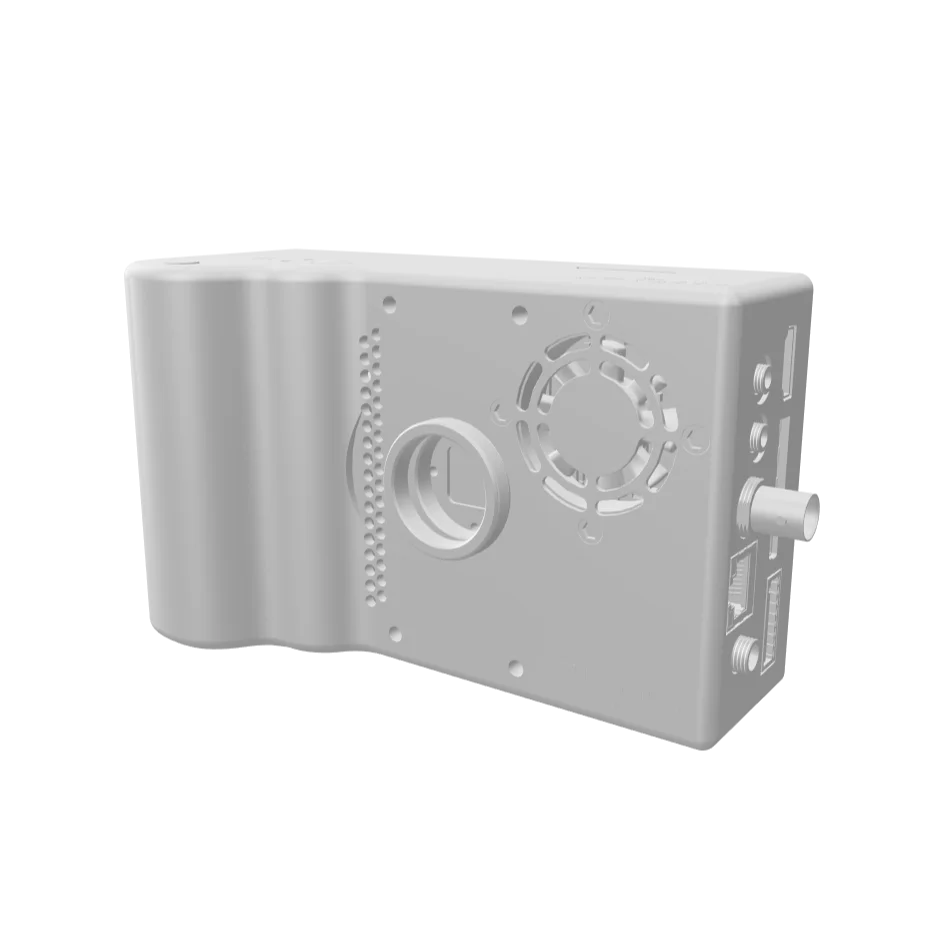
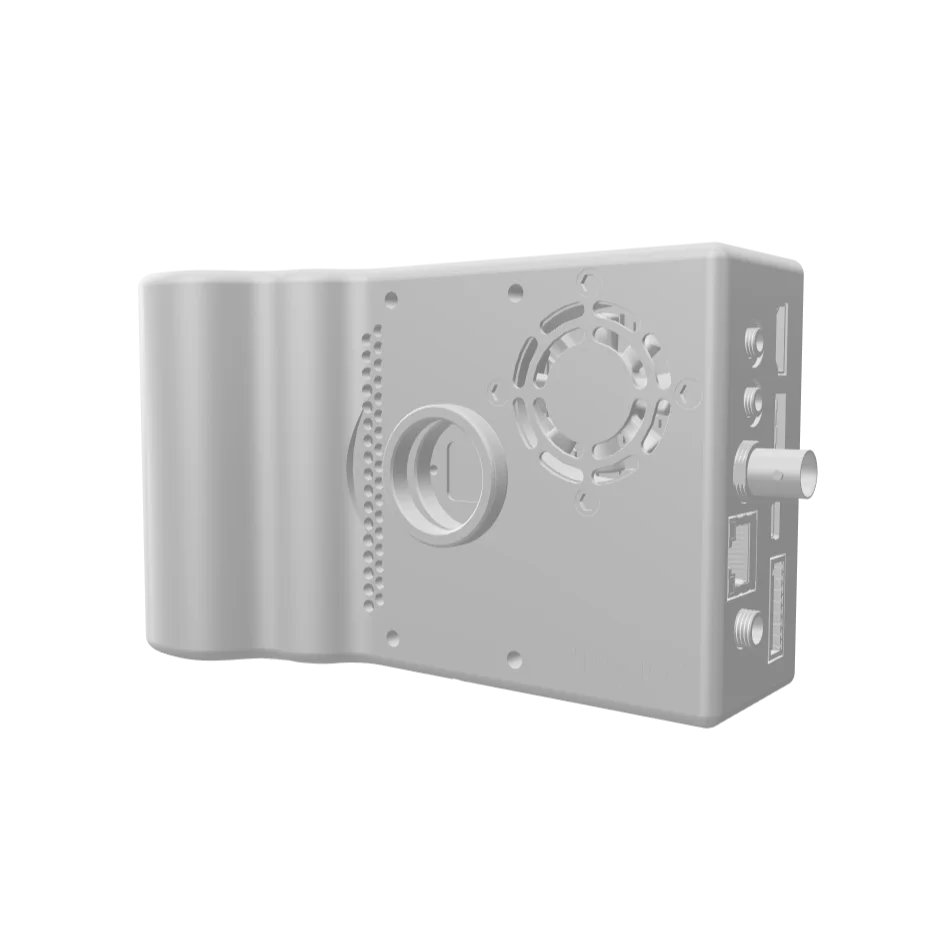
changes

diff --git a/TestBootStrap/chronos-1.4.html b/TestBootStrap/chronos-1.4.html
@@ -449,7 +449,7 @@
 
     <!--Start Order Section-->
     <section class="order scroll-start">
-        <model-viewer reveal="interaction" src="3D-Model/Chronos_360.glb" poster="Images/Camera-3D.webp" auto-rotate
+        <model-viewer reveal="interaction" src="3D-Model/Chronos_360.glb" poster="Images/Camera-3D.webp" auto-rotate camera-orbit="2.2082813082262494rad 1.4923259532635853rad auto" 
             camera-controls alt="Camera-3D-Model" exposure="1" shadow-intensity="1" shadow-softness=".7"
             environment-image="/Images/studio_1.hdr">
 

diff --git a/TestBootStrap/Styles/Chronos1.4Style.css b/TestBootStrap/Styles/Chronos1.4Style.css
@@ -299,7 +299,7 @@ html {
   --poster-color: black;
   --progress-bar-height: 10px;
   --progress-bar-color: rgba(0, 0, 0, 1);
-  background-color: #ce2d28;
+  background-color: #fa605b;
 }
 
 .order .model-btn {
